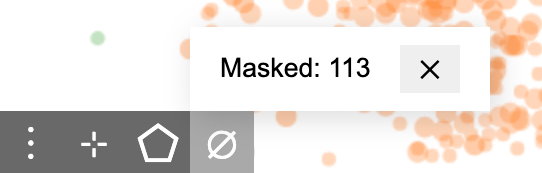
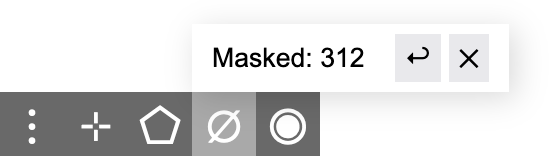
added undo masking

diff --git a/static/js/select.js b/static/js/select.js
@@ -50,17 +50,21 @@ function initSelTools(mo) {
     if (!mo.cache.npick) return;
     const pick = mo.picked,
           mask = mo.masked;
-    let m = 0;
+    let res = [];
     const n = mo.cache.nctg;
     for (let i = 0; i < n; i++) {
       if (pick[i]) {
         mask[i] = true;
         pick[i] = false;
-        m ++;
+        res.push(i);
       }
     }
+    const m = res.length;
     mo.cache.npick -= m;
     mo.cache.nmask += m;
+    const history = mo.cache.maskh;
+    history.push(res);
+    if (history.length > 50) history.shift();
     toastMsg(`Masked ${plural('contig', m)}.`, mo.stat);
     prepDataForDisplay(mo);
     updateLegends(mo);
@@ -69,17 +73,44 @@ function initSelTools(mo) {
     mo.rena.focus();
   });
 
-  /** Clear mask. */
-  byId('clear-mask-btn').addEventListener('click', function () {
-    mo.masked.fill(false);
-    mo.cache.nmask = 0;
+  /** Undo masking */
+  byId('undo-mask-btn').addEventListener('click', function () {
+    const prev = mo.cache.maskh.pop();
+    if (prev === undefined) return;
+    const mask = mo.masked;
+    const n = prev.length;
+    let idx, m = 0;
+    for (let i = 0; i < n; i++) {
+      idx = prev[i];
+      if (mask[idx]) {
+        mask[idx] = false;
+        m++;
+      }
+    }
+    if (!m) return;
+    mo.cache.nmask -= m;
+    toastMsg(`Unmasked ${plural('contig', m)}.`, mo.stat);
     prepDataForDisplay(mo);
     updateLegends(mo);
     renderArena(mo);
     updateMaskCtrl(mo);
+    mo.rena.focus();
   });
 
-  /** Highlight colors */
+  /** Clear mask. */
+  byId('clear-mask-btn').addEventListener('click', function () {
+    mo.masked.fill(false);
+    mo.cache.nmask = 0;
+    mo.cache.maskh.length = 0;
+    toastMsg(`Unmasked all contigs.`, mo.stat);
+    prepDataForDisplay(mo);
+    updateLegends(mo);
+    renderArena(mo);
+    updateMaskCtrl(mo);
+    mo.rena.focus();
+  });
+
+  /** Highlight colors. */
   const hidiv = byId('high-menu');
   const nhigh = HIGHLIGHT_PALETTE.length;
   let p, span, btn;
@@ -296,7 +327,7 @@ function updateSelection(mo) {
 function updateMaskCtrl(mo) {
   const n = mo.cache.nmask;
   byId('masked-span').innerHTML = `Masked: ${n}`;
-  byId('clear-mask-btn').classList.toggle('hidden', !n);
+  byId('unmask-span').classList.toggle('hidden', !n);
 }
 
 

diff --git a/static/css/style.css b/static/css/style.css
@@ -1695,24 +1695,24 @@ div.legend:hover div.clip {
  * Masking.
  */
 
-#mask-menu {
-  min-width: 140px;
+#mask-menu > p {
+  overflow: hidden;
+  white-space: nowrap;
 }
 
 #masked-span {
   padding-left: 5px;
+  padding-right: 5px;
 }
 
-#clear-mask-btn {
+#unmask-span {
+  align-items: center;
   padding-left: 10px;
-  padding-right: 10px;
+  padding-right: 5px;
 }
 
-#high-menu span {
-  width: 60px;
-  text-align: center;
-  height: 100%;
-  cursor: pointer;
+#unmask-span > button {
+  line-height: 24px;
 }
 
 
@@ -1722,6 +1722,13 @@ div.legend:hover div.clip {
 
 #high-menu {
   min-width: 80px;
+}
+
+#high-menu span {
+  width: 60px;
+  text-align: center;
+  height: 100%;
+  cursor: pointer;
 }
 
 

diff --git a/BinaRena.html b/BinaRena.html
@@ -342,8 +342,12 @@
     <div class="freq">
       <button id="mask-btn" title="Mask selected contigs (Delete)">&empty;</button>
       <div id="mask-menu" class="expand">
-        <p><span id="masked-span">Masked</span><!--
-        --><button id="clear-mask-btn" class="hidden" title="Unmask all contigs">&#10005;</button>
+        <p>
+          <span id="masked-span">Masked: 0</span>
+          <span id="unmask-span" class="hidden">
+            <button id="undo-mask-btn" title="Undo last masking (Z)">&#8617;</button>
+            <button id="clear-mask-btn" title="Unmask all contigs">&#10005;</button>
+          </span>
       </div>
     </div>
     <div class="freq">

diff --git a/static/js/render.js b/static/js/render.js
@@ -116,6 +116,9 @@ function initCanvas(mo) {
       case '0':
         byId('reset-btn').click();
         break;
+      case 'Enter':
+        polygonSelect(mo, e.shiftKey);
+        break;
       case 'l':
       case 'L':
         byId('high-btn').click();
@@ -128,8 +131,9 @@ function initCanvas(mo) {
       case 'Backspace':
         byId('mask-btn').click();
         break;
-      case 'Enter':
-        polygonSelect(mo, e.shiftKey);
+      case 'z':
+      case 'Z':
+        byId('undo-mask-btn').click();
         break;
       case ' ':
         byId('as-new-bin-btn').click();

diff --git a/static/js/main.js b/static/js/main.js
@@ -156,6 +156,8 @@ function mainObj() {
    * @property {number} npick - number of contigs selected
    * @property {number} nmask - number of contigs masked
    * 
+   * @property {number[]} maskh - masking history
+   * 
    * @property {Set.<string>} binns - current bin names
    * Note: Bin names is a superset of actual bins in the dataset, because there
    * can be empty bins.
@@ -174,6 +176,7 @@ function mainObj() {
     freqs: {},
     npick: 0,
     nmask: 0,
+    maskh: [],
     nhigh: 0,
     binns: new Set(),
     pdist: [],

diff --git a/static/js/display.js b/static/js/display.js
@@ -624,6 +624,7 @@ function updateViewByData(mo) {
   cache.freqs = {};
   cache.npick = 0;
   cache.nmask = 0;
+  cache.maskh = [];
   cache.binns.clear();
   cache.pdist = [];
 

diff --git a/README.md b/README.md
@@ -58,11 +58,11 @@ The BinaRena interface is like a [**digital map**](https://www.google.com/maps) 
 - Click a contig to **select** it. Hold `Shift` and click to select multiple contigs.
 - Click a selected contig to unselect it. Hold `Shift` and click to unselect multiple contigs.
 - Press `Enter` to enter **polygon selection** mode. Then use mouse clicks to draw a polygon to contain multiple contigs. Press `Enter` again to complete selection. Hold `Shift` while pressing the second `Enter` to add contigs to the existing selection.
-- Press `Delete` or `Backspace` to **mask** selected contigs. Presee `L` to **highlight** selected contigs.
+- Press `Delete` or `Backspace` to **mask** selected contigs. Press `Z` to undo.
+- Presee `L` to **highlight** selected contigs.
 - Press `Space` to **create a new bin** from selected contigs.
 - Click a **bin name** to select it and all member contigs. Click it again to edit its name. Hold Shift and click to select multiple bins.
 - Press `.` (`>`) to **add** selected contigs to the current bin, press `,` (`<`) to **remove** selected contigs from the current bin, press `/` to **update** the current bin with selected contigs (i.e., replace its content).
-- Press `P` to take a screenshot of the current view.
 - Press `0` to reset the plot view.
 
 
@@ -195,9 +195,11 @@ Hold `Shift` when finishing selection will add the contigs to the current select
 
 One can press the `Delete` key or click the <span style="background-color: lightgrey">&empty;</span> button in the corner to **mask** currently selected contigs. These contigs will disappear from the plot. They will also be excluded from subsequent operations (e.g., they cannot be selected, nor can they influence calculation of metrics). This function is useful for cloaking unwanted contigs during binning.
 
-<img src="docs/img/mask.png" width="271">
+<img src="docs/img/mask.png" width="279">
 
-The masked contigs are not deleted from the dataset. They can be released back to the view by clicking the <span style="background-color: lightgrey">&times;</span> button next to the masked number.
+The masked contigs are not deleted from the dataset. They can be released back to the view by clicking the <span style="background-color: lightgrey">&times;</span> button.
+
+One can also press `Z` or click the <span style="background-color: lightgrey">&#8617;</span> button to **undo** previous masking operations one by one. The program allows a total of 50 regrets.
 
 - Note that masked contigs will not be immediated deleted from bins. One can click the <span style="background-color: lightgrey">&empty;</span> button in the bin table toolbar to remove masked contigs from all bins.
 
